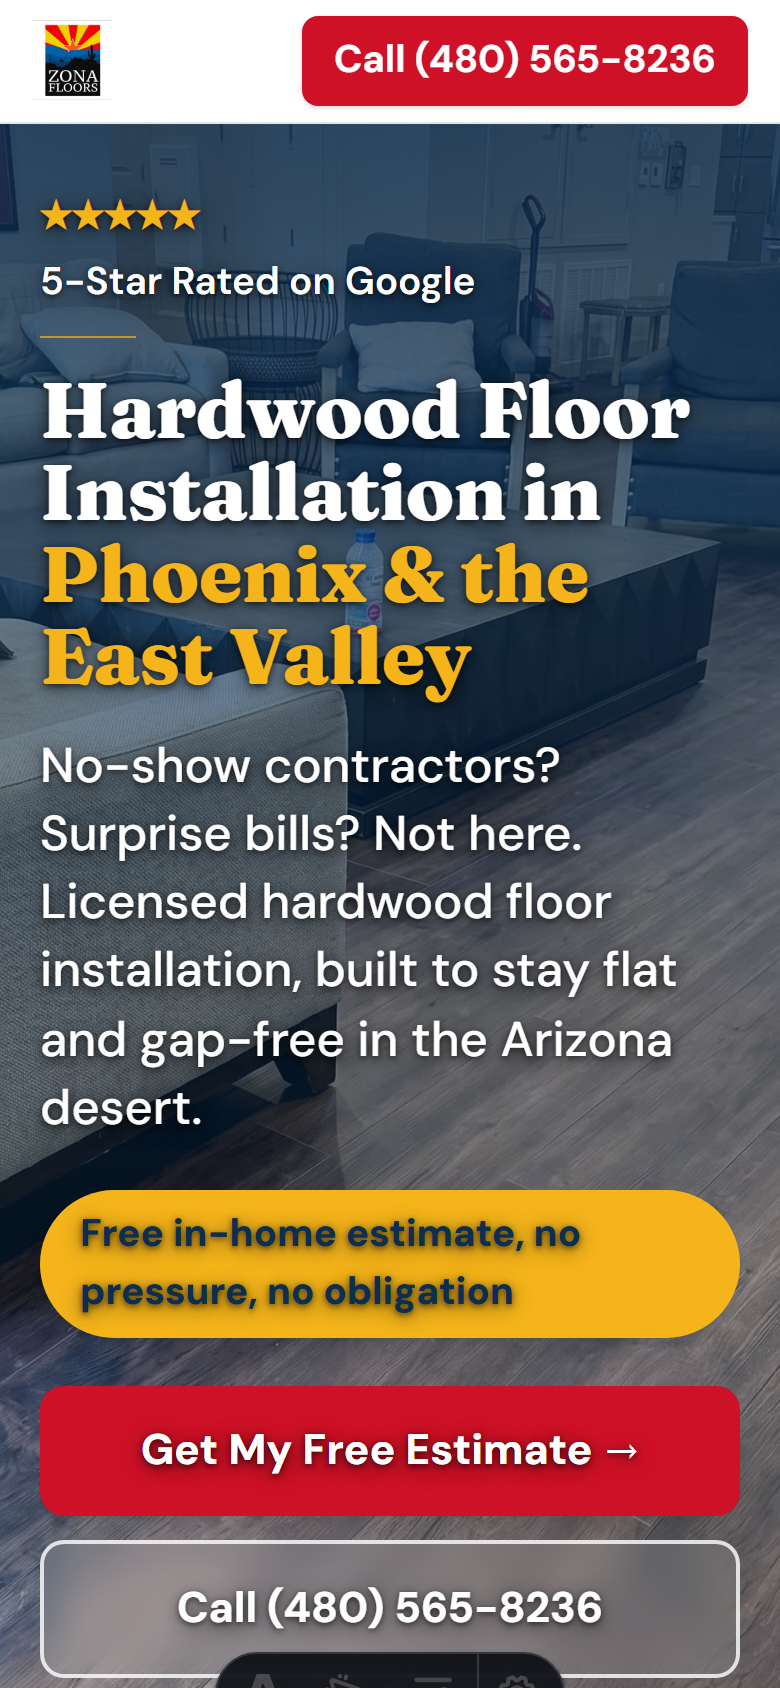
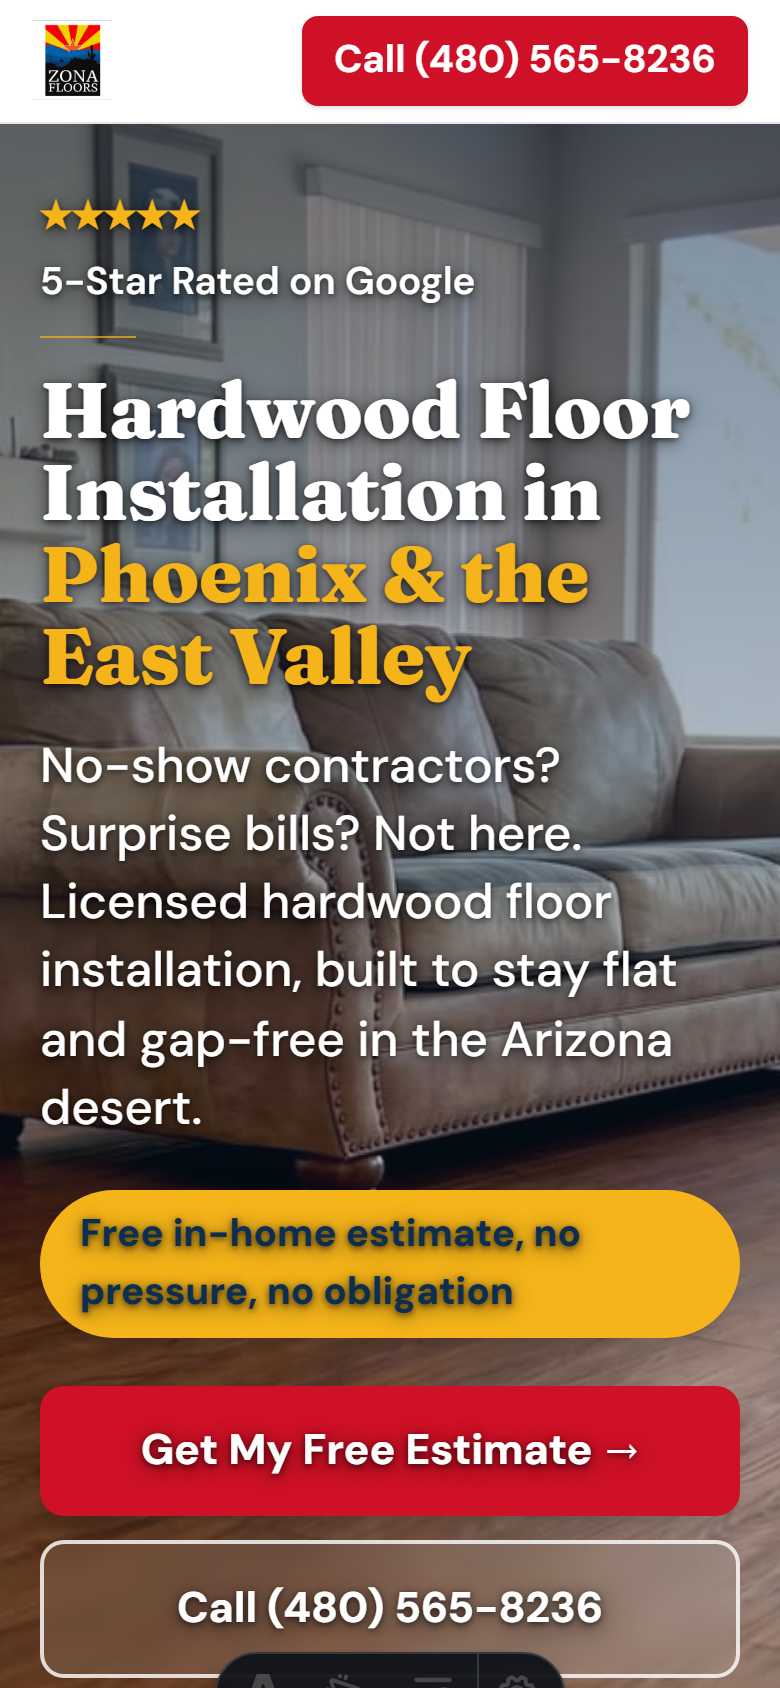
feat(wood-flooring): auto-swap species cards, styled showcase, new hero, animations
- "Choose your floor" cards auto-crossfade each wood swatch to a real Zona
  crew install photo (White Oak/Walnut/Maple), pinned on hover, with a
  "real installs" badge. Crew photos watermark-removed + optimized (~70KB).
- New "Picture your home, finished" showcase: two styled result rooms
  (styled-1/2), watermark-removed + optimized.
- Hero: swapped to the new client living-room photo (watermark removed,
  1600w ~141KB); update intrinsic dimensions to the landscape ratio.
- More animation: hero Ken Burns zoom, sheen sweep on primary CTAs,
  species crossfade loop — all gated under prefers-reduced-motion.
- Creatives: c7 (carpet before/after, 3 days) replaces the mid-page speed
  banner; c9 (senior/veteran discounts) added after the guarantees;
  bottom financing closer kept at c2 (12-month, matches intake).
- Ignore raw image sources and unused/watermarked veteran logos.

diff --git a/src/styles/global.css b/src/styles/global.css
@@ -105,3 +105,45 @@ h3 {
   html.js [data-reveal][data-reveal-delay="2"] { transition-delay: 160ms; }
   html.js [data-reveal][data-reveal-delay="3"] { transition-delay: 240ms; }
 }
+
+/*
+ * Species "Choose your floor" auto-swap: a real Zona crew install photo
+ * crossfades over the wood swatch on a loop, and stays shown on hover.
+ * Base (reduced-motion): swatch by default, crew on hover only — no looping.
+ */
+.zf-swap { opacity: 0; transition: opacity 0.5s ease; }
+.group:hover .zf-swap { opacity: 1; }
+
+@media (prefers-reduced-motion: no-preference) {
+  @keyframes zfSwap {
+    0%, 6%    { opacity: 0; }
+    18%, 42%  { opacity: 1; }
+    54%, 100% { opacity: 0; }
+  }
+  .zf-swap { animation: zfSwap 9s ease-in-out infinite; }
+  /* Hover overrides the loop and pins the crew photo visible. */
+  .group:hover .zf-swap { animation: none; opacity: 1; }
+
+  /* Hero: slow Ken Burns zoom for a premium, alive feel (no CLS — transform only). */
+  @keyframes zfKenBurns {
+    from { transform: scale(1); }
+    to   { transform: scale(1.08); }
+  }
+  .zf-kenburns { animation: zfKenBurns 22s ease-in-out infinite alternate; }
+
+  /* Periodic light sheen sweeping across primary CTAs. */
+  @keyframes zfSheen {
+    0%        { transform: translateX(-160%) skewX(-20deg); }
+    55%, 100% { transform: translateX(260%) skewX(-20deg); }
+  }
+  .zf-sheen { position: relative; overflow: hidden; }
+  .zf-sheen::after {
+    content: "";
+    position: absolute; inset: 0 auto 0 0;
+    width: 45%;
+    background: linear-gradient(90deg, transparent, rgba(255,255,255,0.5), transparent);
+    transform: translateX(-160%) skewX(-20deg);
+    animation: zfSheen 6.5s ease-in-out infinite;
+    pointer-events: none;
+  }
+}
